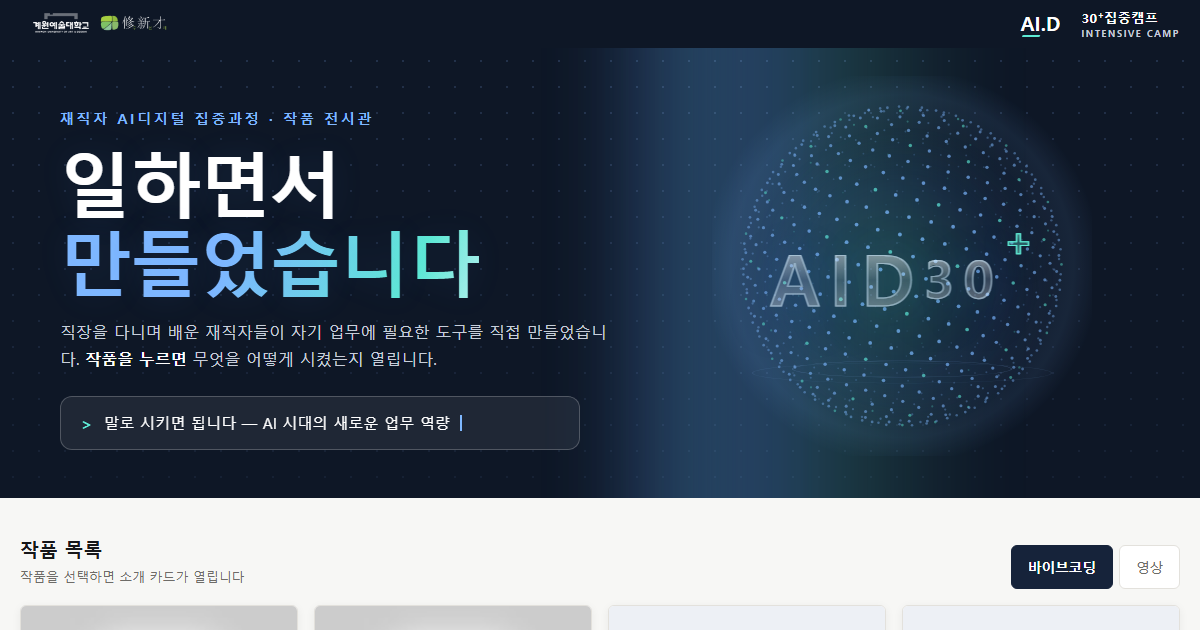
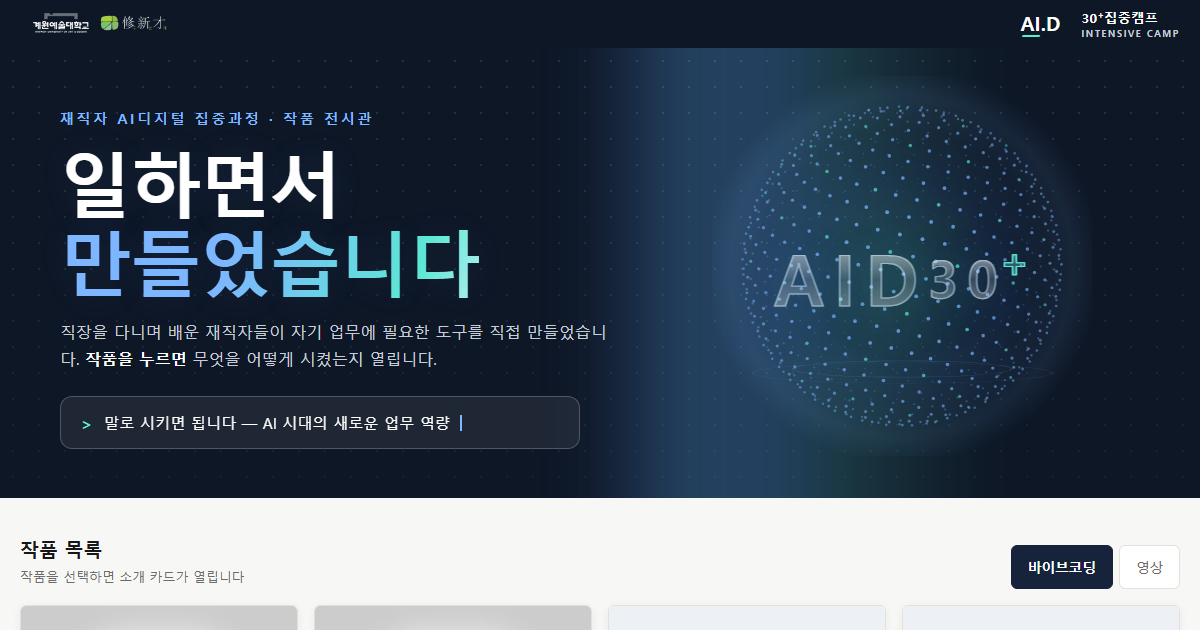
fix: 블룸 + 를 30 바로 뒤 위첨자 위치로

Changed region(s): [[0.6475, 0.3619, 0.8633, 0.4825], [0.0617, 0.6937, 0.4625, 0.7238]]

diff --git a/index.html b/index.html
@@ -232,7 +232,7 @@ button{font-family:inherit;cursor:pointer}
 .glyph.num{font-size:3.2rem}
 .glyph.plus{
   font-size:2.6rem;
-  align-self:flex-start;margin-top:56px;
+  margin-left:-8px;margin-bottom:34px;   /* 30 바로 뒤 위첨자 위치 */
   background:linear-gradient(180deg,rgba(140,243,223,.85) 0%,rgba(94,234,212,.28) 60%,rgba(140,243,223,.55) 100%);
   -webkit-background-clip:text;background-clip:text;color:transparent;
   -webkit-text-stroke:1px var(--hero-accent-2);
